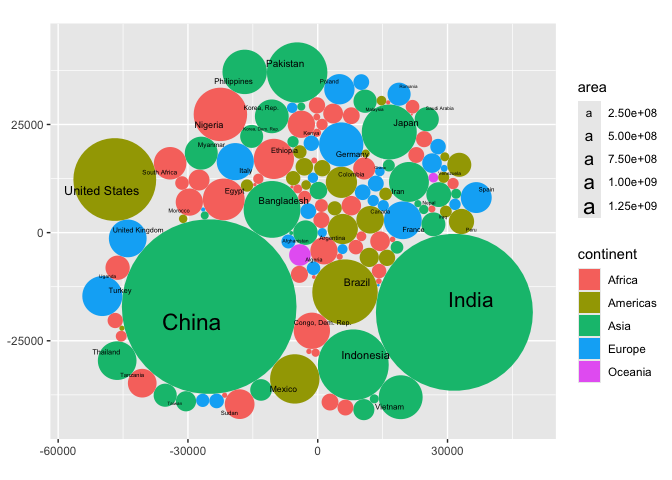
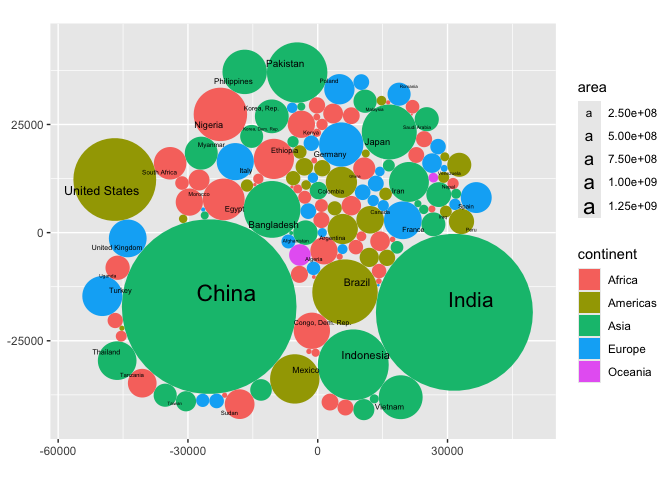
adding render aes to circle centers - condition on which to include circle annotation or not

diff --git a/README.md b/README.md
@@ -66,6 +66,9 @@ library(tidyverse)
 #> ✖ dplyr::filter() masks stats::filter()
 #> ✖ dplyr::lag()    masks stats::lag()
 #> ℹ Use the conflicted package (<http://conflicted.r-lib.org/>) to force all conflicts to become errors
+```
+
+``` r
 gapminder::gapminder %>%  
   filter(continent == "Americas") %>%  
   filter(year == 2002) %>%  
@@ -196,6 +199,9 @@ filter(continent == "Americas") %>%
 #> 4  1150.752  4801.407 3186.661    Canada  31902268
 #> 5  5273.817  1302.381 2221.005     Chile  15497046
 #> 6 10562.330 -1160.651 3612.938  Colombia  41008227
+```
+
+``` r
 
 gapminder::gapminder %>% 
   filter(year == 2002) %>% 
@@ -208,6 +214,9 @@ gapminder::gapminder %>%
 #> 3  0.5868621 -5.635277 3.2410224     Asia   33
 #> 4  0.5595510  5.461472 3.0901936   Europe   30
 #> 5  3.8910939  3.456984 0.7978846  Oceania    2
+```
+
+``` r
 
 gapminder::gapminder %>% 
   filter(year == 2002) %>% 
@@ -246,13 +255,14 @@ StatCirclepackcenter <- ggplot2::ggproto(`_class` = "StatCirclepackcenter",
 #' @export
 #'
 #' @examples
-geom_circlepack_text <- function(mapping = NULL, data = NULL,
+stat_circlepack_center <- function(mapping = NULL, data = NULL,
+                                 geom = "text",
                            position = "identity", na.rm = FALSE,
                            show.legend = NA,
                            inherit.aes = TRUE, ...) {
   ggplot2::layer(
+    geom = geom, # inherit other behavior
     stat = StatCirclepackcenter, # proto object from Step 2
-    geom = ggplot2::GeomText, # inherit other behavior
     data = data,
     mapping = mapping,
     position = position,
@@ -261,6 +271,23 @@ geom_circlepack_text <- function(mapping = NULL, data = NULL,
     params = list(na.rm = na.rm, ...)
   )
 }
+
+
+#' Title
+#'
+#' @param mapping
+#' @param data
+#' @param position
+#' @param na.rm
+#' @param show.legend
+#' @param inherit.aes
+#' @param ...
+#'
+#' @return
+#' @export
+#'
+#' @examples
+geom_circlepack_text <- stat_circlepack_center
 ```
 
 ### Step 4. test geom
@@ -561,10 +588,19 @@ filter(year == 2002) %>%
 ``` r
 knitrExtra:::chunk_to_r(chunk_name = "compute_panel_circlepack")
 #> It seems you are currently knitting a Rmd/Qmd file. The parsing of the file will be done in a new R session.
+```
+
+``` r
 knitrExtra:::chunk_to_r(chunk_name = "geom_circlepack")
 #> It seems you are currently knitting a Rmd/Qmd file. The parsing of the file will be done in a new R session.
+```
+
+``` r
 knitrExtra:::chunk_to_r(chunk_name = "compute_panel_circlepack_center")
 #> It seems you are currently knitting a Rmd/Qmd file. The parsing of the file will be done in a new R session.
+```
+
+``` r
 knitrExtra:::chunk_to_r(chunk_name = "geom_circlepack_text")
 #> It seems you are currently knitting a Rmd/Qmd file. The parsing of the file will be done in a new R session.
 ```
@@ -617,6 +653,9 @@ layer_data(i = 2)
 #> 1 4.535534  2201   all     1 all -26.46885 0 26.46885 2201 gray50     0   0.5
 #>   vjust alpha family fontface lineheight
 #> 1   0.5    NA               1        1.2
+```
+
+``` r
 
 
 last_plot() +
